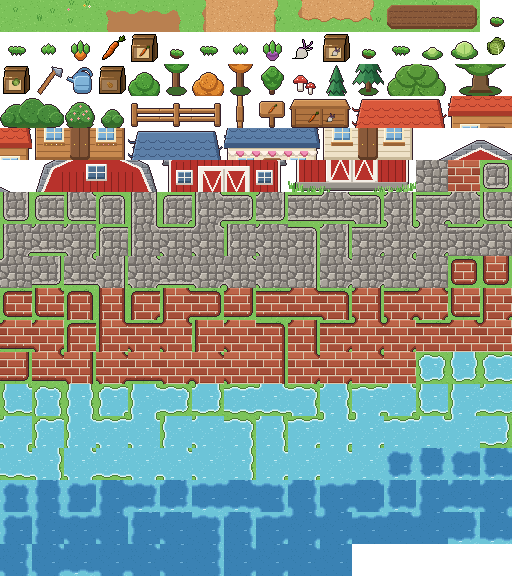
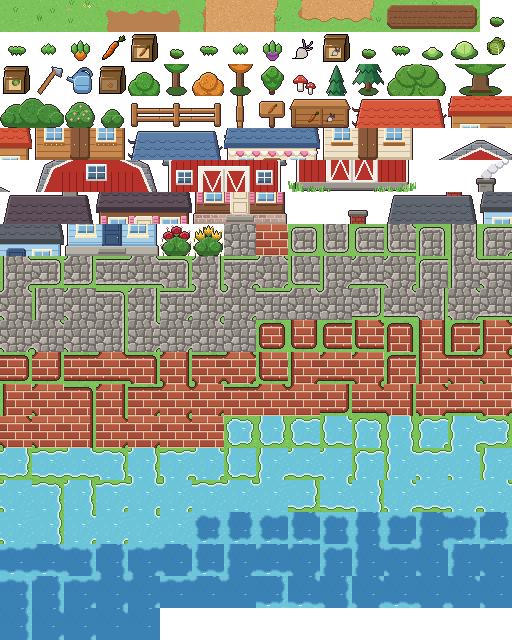
Art: two houses, two villagers, rose and tulip patches
house_brown (faded brick foundation, pink shutters, smoking stone chimney) and
house_blue (plain foundation, idle brick chimney), 3x4 tiles. Villager walk
sheets on the player body: bald man with a moustache in a red shirt and blue
overalls, woman in a yellow sweater and jeans with a brown ponytail.
Walk-through roses and tulips patches that fade into the grass.

Claude-Session: https://claude.ai/code/session_01JZv9D8eG6iRnc3yJzRKhZf

diff --git a/src/art-index.js b/src/art-index.js
@@ -1,2 +1,2 @@
 // Generated by tools/make_art.py: tile names -> index in assets/art/world.png (16 columns of 32x32).
-export const A = {"grass0": 0, "grass1": 1, "grass2": 2, "path0": 3, "path1": 4, "path2": 5, "path3": 6, "path4": 7, "path5": 8, "path6": 9, "path7": 10, "path8": 11, "soil0": 12, "soil1": 13, "soil2": 14, "carrot0": 15, "carrot1": 16, "carrot2": 17, "carrot3": 18, "carrot_item": 19, "carrot_packet": 20, "turnip0": 21, "turnip1": 22, "turnip2": 23, "turnip3": 24, "turnip_item": 25, "turnip_packet": 26, "cabbage0": 27, "cabbage1": 28, "cabbage2": 29, "cabbage3": 30, "cabbage_item": 31, "cabbage_packet": 32, "hoe": 33, "can": 34, "bag": 35, "tree_green_0": 36, "tree_green_1": 37, "tree_orange_0": 38, "tree_orange_1": 39, "tree": 40, "mushrooms": 41, "pine_0": 42, "pine_1": 43, "oak_0": 44, "oak_1": 45, "oak_2": 46, "oak_3": 47, "shrub_large_0": 48, "shrub_large_1": 49, "shrub_flower": 50, "shrub_small": 51, "fence0": 52, "fence1": 53, "fence2": 54, "fence3": 55, "sign": 56, "bin_0": 57, "bin_1": 58, "house_0": 59, "house_1": 60, "house_2": 61, "house_3": 62, "house_4": 63, "house_5": 64, "house_6": 65, "house_7": 66, "house_8": 67, "shop_0": 68, "shop_1": 69, "shop_2": 70, "shop_3": 71, "shop_4": 72, "shop_5": 73, "shop_6": 74, "shop_7": 75, "shop_8": 76, "barn_0": 77, "barn_1": 78, "barn_2": 79, "barn_3": 80, "barn_4": 81, "barn_5": 82, "barn_6": 83, "barn_7": 84, "barn_8": 85, "barn_9": 86, "barn_10": 87, "barn_11": 88, "barn_12": 89, "barn_13": 90, "barn_14": 91, "barn_15": 92, "cobble0": 93, "brick0": 94, "cobbleb0": 95, "cobbleb1": 96, "cobbleb2": 97, "cobbleb3": 98, "cobbleb4": 99, "cobbleb5": 100, "cobbleb6": 101, "cobbleb7": 102, "cobbleb8": 103, "cobbleb9": 104, "cobbleb10": 105, "cobbleb11": 106, "cobbleb12": 107, "cobbleb13": 108, "cobbleb14": 109, "cobbleb15": 110, "cobbleb16": 111, "cobbleb17": 112, "cobbleb18": 113, "cobbleb19": 114, "cobbleb20": 115, "cobbleb21": 116, "cobbleb22": 117, "cobbleb23": 118, "cobbleb24": 119, "cobbleb25": 120, "cobbleb26": 121, "cobbleb27": 122, "cobbleb28": 123, "cobbleb29": 124, "cobbleb30": 125, "cobbleb31": 126, "cobbleb32": 127, "cobbleb33": 128, "cobbleb34": 129, "cobbleb35": 130, "cobbleb36": 131, "cobbleb37": 132, "cobbleb38": 133, "cobbleb39": 134, "cobbleb40": 135, "cobbleb41": 136, "cobbleb42": 137, "cobbleb43": 138, "cobbleb44": 139, "cobbleb45": 140, "cobbleb46": 141, "brickb0": 142, "brickb1": 143, "brickb2": 144, "brickb3": 145, "brickb4": 146, "brickb5": 147, "brickb6": 148, "brickb7": 149, "brickb8": 150, "brickb9": 151, "brickb10": 152, "brickb11": 153, "brickb12": 154, "brickb13": 155, "brickb14": 156, "brickb15": 157, "brickb16": 158, "brickb17": 159, "brickb18": 160, "brickb19": 161, "brickb20": 162, "brickb21": 163, "brickb22": 164, "brickb23": 165, "brickb24": 166, "brickb25": 167, "brickb26": 168, "brickb27": 169, "brickb28": 170, "brickb29": 171, "brickb30": 172, "brickb31": 173, "brickb32": 174, "brickb33": 175, "brickb34": 176, "brickb35": 177, "brickb36": 178, "brickb37": 179, "brickb38": 180, "brickb39": 181, "brickb40": 182, "brickb41": 183, "brickb42": 184, "brickb43": 185, "brickb44": 186, "brickb45": 187, "brickb46": 188, "shallow0": 189, "shallow1": 190, "shallow2": 191, "shallow3": 192, "shallow4": 193, "shallow5": 194, "shallow6": 195, "shallow7": 196, "shallow8": 197, "shallow9": 198, "shallow10": 199, "shallow11": 200, "shallow12": 201, "shallow13": 202, "shallow14": 203, "shallow15": 204, "shallow16": 205, "shallow17": 206, "shallow18": 207, "shallow19": 208, "shallow20": 209, "shallow21": 210, "shallow22": 211, "shallow23": 212, "shallow24": 213, "shallow25": 214, "shallow26": 215, "shallow27": 216, "shallow28": 217, "shallow29": 218, "shallow30": 219, "shallow31": 220, "shallow32": 221, "shallow33": 222, "shallow34": 223, "shallow35": 224, "shallow36": 225, "shallow37": 226, "shallow38": 227, "shallow39": 228, "shallow40": 229, "shallow41": 230, "shallow42": 231, "shallow43": 232, "shallow44": 233, "shallow45": 234, "shallow46": 235, "deep0": 236, "deep1": 237, "deep2": 238, "deep3": 239, "deep4": 240, "deep5": 241, "deep6": 242, "deep7": 243, "deep8": 244, "deep9": 245, "deep10": 246, "deep11": 247, "deep12": 248, "deep13": 249, "deep14": 250, "deep15": 251, "deep16": 252, "deep17": 253, "deep18": 254, "deep19": 255, "deep20": 256, "deep21": 257, "deep22": 258, "deep23": 259, "deep24": 260, "deep25": 261, "deep26": 262, "deep27": 263, "deep28": 264, "deep29": 265, "deep30": 266, "deep31": 267, "deep32": 268, "deep33": 269, "deep34": 270, "deep35": 271, "deep36": 272, "deep37": 273, "deep38": 274, "deep39": 275, "deep40": 276, "deep41": 277, "deep42": 278, "deep43": 279, "deep44": 280, "deep45": 281, "deep46": 282};
+export const A = {"grass0": 0, "grass1": 1, "grass2": 2, "path0": 3, "path1": 4, "path2": 5, "path3": 6, "path4": 7, "path5": 8, "path6": 9, "path7": 10, "path8": 11, "soil0": 12, "soil1": 13, "soil2": 14, "carrot0": 15, "carrot1": 16, "carrot2": 17, "carrot3": 18, "carrot_item": 19, "carrot_packet": 20, "turnip0": 21, "turnip1": 22, "turnip2": 23, "turnip3": 24, "turnip_item": 25, "turnip_packet": 26, "cabbage0": 27, "cabbage1": 28, "cabbage2": 29, "cabbage3": 30, "cabbage_item": 31, "cabbage_packet": 32, "hoe": 33, "can": 34, "bag": 35, "tree_green_0": 36, "tree_green_1": 37, "tree_orange_0": 38, "tree_orange_1": 39, "tree": 40, "mushrooms": 41, "pine_0": 42, "pine_1": 43, "oak_0": 44, "oak_1": 45, "oak_2": 46, "oak_3": 47, "shrub_large_0": 48, "shrub_large_1": 49, "shrub_flower": 50, "shrub_small": 51, "fence0": 52, "fence1": 53, "fence2": 54, "fence3": 55, "sign": 56, "bin_0": 57, "bin_1": 58, "house_0": 59, "house_1": 60, "house_2": 61, "house_3": 62, "house_4": 63, "house_5": 64, "house_6": 65, "house_7": 66, "house_8": 67, "shop_0": 68, "shop_1": 69, "shop_2": 70, "shop_3": 71, "shop_4": 72, "shop_5": 73, "shop_6": 74, "shop_7": 75, "shop_8": 76, "barn_0": 77, "barn_1": 78, "barn_2": 79, "barn_3": 80, "barn_4": 81, "barn_5": 82, "barn_6": 83, "barn_7": 84, "barn_8": 85, "barn_9": 86, "barn_10": 87, "barn_11": 88, "barn_12": 89, "barn_13": 90, "barn_14": 91, "barn_15": 92, "house_brown_0": 93, "house_brown_1": 94, "house_brown_2": 95, "house_brown_3": 96, "house_brown_4": 97, "house_brown_5": 98, "house_brown_6": 99, "house_brown_7": 100, "house_brown_8": 101, "house_brown_9": 102, "house_brown_10": 103, "house_brown_11": 104, "house_blue_0": 105, "house_blue_1": 106, "house_blue_2": 107, "house_blue_3": 108, "house_blue_4": 109, "house_blue_5": 110, "house_blue_6": 111, "house_blue_7": 112, "house_blue_8": 113, "house_blue_9": 114, "house_blue_10": 115, "house_blue_11": 116, "roses": 117, "tulips": 118, "cobble0": 119, "brick0": 120, "cobbleb0": 121, "cobbleb1": 122, "cobbleb2": 123, "cobbleb3": 124, "cobbleb4": 125, "cobbleb5": 126, "cobbleb6": 127, "cobbleb7": 128, "cobbleb8": 129, "cobbleb9": 130, "cobbleb10": 131, "cobbleb11": 132, "cobbleb12": 133, "cobbleb13": 134, "cobbleb14": 135, "cobbleb15": 136, "cobbleb16": 137, "cobbleb17": 138, "cobbleb18": 139, "cobbleb19": 140, "cobbleb20": 141, "cobbleb21": 142, "cobbleb22": 143, "cobbleb23": 144, "cobbleb24": 145, "cobbleb25": 146, "cobbleb26": 147, "cobbleb27": 148, "cobbleb28": 149, "cobbleb29": 150, "cobbleb30": 151, "cobbleb31": 152, "cobbleb32": 153, "cobbleb33": 154, "cobbleb34": 155, "cobbleb35": 156, "cobbleb36": 157, "cobbleb37": 158, "cobbleb38": 159, "cobbleb39": 160, "cobbleb40": 161, "cobbleb41": 162, "cobbleb42": 163, "cobbleb43": 164, "cobbleb44": 165, "cobbleb45": 166, "cobbleb46": 167, "brickb0": 168, "brickb1": 169, "brickb2": 170, "brickb3": 171, "brickb4": 172, "brickb5": 173, "brickb6": 174, "brickb7": 175, "brickb8": 176, "brickb9": 177, "brickb10": 178, "brickb11": 179, "brickb12": 180, "brickb13": 181, "brickb14": 182, "brickb15": 183, "brickb16": 184, "brickb17": 185, "brickb18": 186, "brickb19": 187, "brickb20": 188, "brickb21": 189, "brickb22": 190, "brickb23": 191, "brickb24": 192, "brickb25": 193, "brickb26": 194, "brickb27": 195, "brickb28": 196, "brickb29": 197, "brickb30": 198, "brickb31": 199, "brickb32": 200, "brickb33": 201, "brickb34": 202, "brickb35": 203, "brickb36": 204, "brickb37": 205, "brickb38": 206, "brickb39": 207, "brickb40": 208, "brickb41": 209, "brickb42": 210, "brickb43": 211, "brickb44": 212, "brickb45": 213, "brickb46": 214, "shallow0": 215, "shallow1": 216, "shallow2": 217, "shallow3": 218, "shallow4": 219, "shallow5": 220, "shallow6": 221, "shallow7": 222, "shallow8": 223, "shallow9": 224, "shallow10": 225, "shallow11": 226, "shallow12": 227, "shallow13": 228, "shallow14": 229, "shallow15": 230, "shallow16": 231, "shallow17": 232, "shallow18": 233, "shallow19": 234, "shallow20": 235, "shallow21": 236, "shallow22": 237, "shallow23": 238, "shallow24": 239, "shallow25": 240, "shallow26": 241, "shallow27": 242, "shallow28": 243, "shallow29": 244, "shallow30": 245, "shallow31": 246, "shallow32": 247, "shallow33": 248, "shallow34": 249, "shallow35": 250, "shallow36": 251, "shallow37": 252, "shallow38": 253, "shallow39": 254, "shallow40": 255, "shallow41": 256, "shallow42": 257, "shallow43": 258, "shallow44": 259, "shallow45": 260, "shallow46": 261, "deep0": 262, "deep1": 263, "deep2": 264, "deep3": 265, "deep4": 266, "deep5": 267, "deep6": 268, "deep7": 269, "deep8": 270, "deep9": 271, "deep10": 272, "deep11": 273, "deep12": 274, "deep13": 275, "deep14": 276, "deep15": 277, "deep16": 278, "deep17": 279, "deep18": 280, "deep19": 281, "deep20": 282, "deep21": 283, "deep22": 284, "deep23": 285, "deep24": 286, "deep25": 287, "deep26": 288, "deep27": 289, "deep28": 290, "deep29": 291, "deep30": 292, "deep31": 293, "deep32": 294, "deep33": 295, "deep34": 296, "deep35": 297, "deep36": 298, "deep37": 299, "deep38": 300, "deep39": 301, "deep40": 302, "deep41": 303, "deep42": 304, "deep43": 305, "deep44": 306, "deep45": 307, "deep46": 308};

diff --git a/src/map-data.js b/src/map-data.js
@@ -10,8 +10,9 @@ const SIZES = {
   house: { w: 3, h: 3 }, shop: { w: 3, h: 3 }, barn: { w: 4, h: 4, solid: 3 }, bin: { w: 2, h: 1 },
   tree_green: { w: 1, h: 2, solid: 1 }, tree_orange: { w: 1, h: 2, solid: 1 },
   pine: { w: 1, h: 2, solid: 1 }, oak: { w: 2, h: 2, solid: 1 }, shrub_large: { w: 2, h: 1 },
+  house_brown: { w: 3, h: 4, solid: 3 }, house_blue: { w: 3, h: 4, solid: 3 },
 };
-const WALK_THROUGH = new Set(['mushrooms']);
+const WALK_THROUGH = new Set(['mushrooms', 'roses', 'tulips']);
 const NOT_PLACEABLE = new Set(['hoe', 'can', 'bag', ...Object.values(CROPS).flatMap(c => [...c.stages, c.item, c.packet])]);
 export const isGround = n => /^(grass|path|soil|cobbleb?|brickb?|shallow|deep)\d+$/.test(n);
 export const BLOB_SETS = ['cobbleb', 'brickb', 'shallow', 'deep']; // 47-piece autotile sets drawn by tools/make_art.py

diff --git a/tools/make_art.py b/tools/make_art.py
@@ -216,6 +216,35 @@ def shrub_small():  # low single bush, about half the flowering shrub's size
     speckle(im, [light, dark], 25, (6, 12, 27, 30), lambda x, y: im.getpixel((x, y))[:3] == C(base)[:3])
     return outline(im)
 
+def flower_patch(kind):  # three big blooms on one leafy bundle, small matching flowers scattered round it into the grass
+    im = new(); d = ImageDraw.Draw(im); fr = random.Random(11 if kind == 'roses' else 12)
+    G2 = ('#4a8e3c', '#66ae50', '#326a2a')
+    if kind == 'roses': bloom, bloom_l, bloom_d, small = '#c8283a', '#ec5a64', '#8a1828', ('#e04a58', '#f48a96')
+    else: bloom, bloom_l, bloom_d, small = '#f2c230', '#fde27a', '#b8801a', ('#f6d04d', '#fff0a0')
+    shape(im, lambda d: d.ellipse([5, 25, 27, 31]), '#3c6b2c', None, None)
+    for cx, cy, r in ((16, 21, 8), (9, 24, 6), (23, 24, 6)):  # the leafy bundle
+        shape(im, lambda d, cx=cx, cy=cy, r=r: d.ellipse([cx - r, cy - r, cx + r, min(cy + r, 29)]), *G2)
+    d = ImageDraw.Draw(im)
+    for _ in range(20):  # leaf texture (own random, so the shared one stays in step for later tiles)
+        x, y = fr.randrange(3, 29), fr.randrange(13, 30)
+        if im.getpixel((x, y))[:3] == C(G2[0])[:3]: d.point((x, y), C(fr.choice(G2[1:])))
+    for (x0, y0), (cx, cy) in zip(((16, 18), (11, 21), (21, 21)), ((16, 7), (8, 12), (24, 12))): d.line([(x0, y0), (cx, cy + 3)], C('#3e7a32'))
+    for cx, cy in ((16, 7), (8, 12), (24, 12)):
+        if kind == 'roses':  # round bloom with a spiral of darker petal edges
+            shape(im, lambda d, cx=cx, cy=cy: d.ellipse([cx - 4, cy - 4, cx + 4, cy + 3]), bloom, bloom_l, bloom_d, 1)
+            d.arc([cx - 2, cy - 2, cx + 2, cy + 2], 180, 450, C(bloom_d)); d.point((cx, cy), C(bloom_d)); d.point((cx - 1, cy - 3), C(bloom_l))
+        else:  # tulip cup: two outer petals and a pointed middle one
+            shape(im, lambda d, cx=cx, cy=cy: d.polygon([(cx - 4, cy - 4), (cx - 2, cy - 1), (cx, cy - 5), (cx + 2, cy - 1), (cx + 4, cy - 4), (cx + 4, cy + 1), (cx + 2, cy + 3), (cx - 2, cy + 3), (cx - 4, cy + 1)]), bloom, bloom_l, bloom_d, 1)
+            d.line([(cx - 2, cy), (cx - 1, cy + 2)], C(bloom_d)); d.line([(cx + 2, cy), (cx + 1, cy + 2)], C(bloom_d))
+        d.polygon([(cx - 2, cy + 3), (cx, cy + 5), (cx + 2, cy + 3)], C('#4e9440'))  # sepals
+    outline(im)
+    # Loose little flowers and blades with no outline round the edge, so the patch fades into the grass around it.
+    for x, y in ((2, 14), (29, 7), (3, 28), (28, 29), (12, 2), (30, 18), (1, 21), (21, 3), (7, 4)):
+        d.line([(x, y + 1), (x, y + 3)], C(G2[2])); c = C(fr.choice(small))
+        for a, b in ((0, 0), (1, 0), (0, -1), (-1, 0)): d.point((x + a, y + b), c)
+        d.point((x, y), C('#fff6c0'))
+    return im
+
 # ---------- paving and water: blob autotiles, 47 pieces per set chosen from all 8 neighbours ----------
 N_, E_, S_, W_, NE, SE, SW, NW = 1, 2, 4, 8, 16, 32, 64, 128
 def blob_reduce(m):  # a corner neighbour only matters when both sides next to it are connected
@@ -389,6 +418,56 @@ def barn():  # 128x128 red gambrel barn with white trim, grey shingles behind th
     for x in list(range(15, 37, 4)) + list(range(92, 114, 4)): tuft(x + tr.randrange(-1, 2), 127, 3, 5)  # along the footing
     for x in (40, 87): tuft(x, 127, 3, 3)  # a little at the door posts, doorway kept clear
     return im
+def cottage(wall, wall_l, wall_d, roof, roof_l, roof_d, door, door_l, door_d, chimney, shutters=None, brick_base=False, smoke=False):
+    """96x128 house (3x4 tiles): siding walls, shingle roof, chimney poking above it; the top row holds chimney and smoke."""
+    im = new(96, 128); d = ImageDraw.Draw(im)
+    if chimney == 'brick':
+        shape(im, lambda d: d.rectangle([63, 22, 76, 56]), '#a8483a', '#c46050', '#7a3028', 1)
+        for y in range(25, 56, 4):
+            d.line([(64, y), (75, y)], C('#7a3028'))
+            for x in range(64 + (y // 4 % 2) * 3, 76, 6): d.line([(x, y - 3), (x, y - 1)], C('#7a3028'))
+        shape(im, lambda d: d.rectangle([61, 19, 78, 23]), '#8a8680', '#a8a49e', '#625e58', 1)
+    else:  # fieldstone
+        shape(im, lambda d: d.rectangle([63, 22, 76, 56]), '#8e8a84', '#aaa69e', '#66625c', 1)
+        for x, y in ((65, 26), (71, 31), (66, 37), (72, 43), (65, 48), (70, 52)): d.line([(x, y), (x + 4, y)], C('#66625c'))
+        shape(im, lambda d: d.rectangle([61, 19, 78, 23]), '#6e6a64', '#8e8a84', '#4e4a46', 1)
+    shape(im, lambda d: d.rectangle([4, 78, 91, 118]), wall, wall_l, wall_d)
+    for y in range(84, 118, 6): d.line([(5, y), (90, y)], C(wall_d))  # lap siding
+    shape(im, lambda d: d.polygon([(0, 82), (10, 36), (86, 36), (95, 82)]), roof, roof_l, roof_d, 3)
+    sh = new(96, 128); sd = ImageDraw.Draw(sh)
+    for r, y in enumerate(range(42, 80, 7)):
+        for x in range(4 + (r % 2) * 5, 94, 10): sd.arc([x - 5, y - 4, x + 5, y + 4], 20, 160, C(roof_d))
+    for (x, y) in [(x, y) for y in range(36, 80) for x in range(96) if sh.getpixel((x, y))[3] and im.getpixel((x, y))[:3] == C(roof)[:3]]: im.putpixel((x, y), C(roof_d))  # shingles kept inside the roof
+    shape(im, lambda d: d.rectangle([0, 79, 95, 83]), roof_d, None, None)
+    for x in (12, 64):  # windows, with shutters either side when asked
+        shape(im, lambda d, x=x: d.rectangle([x, 89, x + 19, 106]), '#f6e7c1', '#fff8e0', None)
+        shape(im, lambda d, x=x: d.rectangle([x + 2, 91, x + 17, 104]), '#7fb3d8', '#b9dcf2', '#4f80aa', 1)
+        d.line([(x + 10, 91), (x + 10, 104)], C('#f6e7c1')); d.line([(x + 2, 97), (x + 17, 97)], C('#f6e7c1'))
+        shape(im, lambda d, x=x: d.rectangle([x - 1, 107, x + 20, 109]), '#f6e7c1' if not shutters else wall_d, '#fff8e0' if not shutters else wall_l, None)
+        if shutters:
+            for sx in (x - 7, x + 21):
+                shape(im, lambda d, sx=sx: d.rectangle([sx, 88, sx + 5, 107]), shutters[0], shutters[1], shutters[2], 1)
+                for y in range(91, 106, 3): d.line([(sx + 1, y), (sx + 4, y)], C(shutters[2]))
+    shape(im, lambda d: d.rounded_rectangle([38, 88, 57, 120], 3), door, door_l, door_d)
+    d.rectangle([41, 92, 54, 102], outline=C(door_d)); d.rectangle([41, 106, 54, 116], outline=C(door_d)); d.point((53, 109), C('#f6d04d'))
+    if brick_base:  # faded brick: pale, low-contrast bricks with soft mortar
+        shape(im, lambda d: d.rectangle([2, 118, 93, 127]), '#d2c0b2', None, '#a8968a', 1)
+        br = random.Random(5)
+        for row, y in enumerate((119, 123)):
+            for x in range(3 - (row % 2) * 4, 93, 8):
+                c = C(br.choice(['#b48a7c', '#bc968a', '#a88074', '#c4a296']))
+                d.rectangle([max(x, 3), y, min(x + 6, 92), y + 2], c)
+        for _ in range(40): d.point((br.randrange(3, 93), br.randrange(119, 126)), C(br.choice(['#d2c0b2', '#c8b4a6'])))
+    else:
+        shape(im, lambda d: d.rectangle([2, 118, 93, 127]), '#b4b0a8', '#cac6be', '#8a867e', 1)
+    shape(im, lambda d: d.rectangle([34, 120, 61, 125]), '#9a968e', '#b4b0a8', '#706c66', 1)  # door step
+    outline(im)
+    if smoke:  # soft puffs drifting up and to the right, lighter as they rise
+        for (cx, cy, r), col in zip(((70, 14, 5), (76, 8, 5), (83, 4, 4), (89, 1, 3)), ('#d8d4dc', '#e2dee6', '#ece8f0', '#f4f2f6')):
+            sm = new(96, 128)
+            shape(sm, lambda d, cx=cx, cy=cy, r=r: d.ellipse([cx - r, cy - r, cx + r, cy + r]), col, '#ffffff', '#aaa6b4', 1)
+            sm.putalpha(sm.getchannel('A').point(lambda a: a * 215 // 255)); im.alpha_composite(sm)
+    return im
 def inside_poly(pts, x, y):
     m = Image.new('L', (4 * S, 4 * S)); ImageDraw.Draw(m).polygon(pts, 255); return m.getpixel((x, y)) > 0 if 0 <= y < 4 * S else False
 
@@ -407,6 +486,9 @@ def farmer(p):
             im = new(); step = (0, 1, -1)[f]
             d = ImageDraw.Draw(im); d.ellipse([9, 28, 23, 31], (0, 0, 0, 60))
             side = dir_ in (1, 2)
+            if p.get('tail') and side:  # ponytail hangs behind the head
+                tx = 22 if dir_ == 1 else 5
+                shape(im, lambda d: d.rounded_rectangle([tx, 6, tx + 5, 18], 2), p['hair'], p['hair_l'], p['hair_d'], 1)
             if p['long'] and dir_ != 3:  # long hair behind the body
                 box = [7, 8, 25, 23] if dir_ == 0 else [15, 8, 25, 22] if dir_ == 1 else [7, 8, 17, 22]
                 shape(im, lambda d: d.rounded_rectangle(box, 5), p['hair'], None, p['hair_d'])
@@ -426,7 +508,14 @@ def farmer(p):
             if not side or True:
                 shape(im, lambda d: d.rounded_rectangle([tx0, 15, tx1, 24], 3), p['shirt'], p['shirt_l'], p['shirt_d'])
                 d = ImageDraw.Draw(im)
-                if dir_ == 0: d.line([(16, 16), (16, 23)], C(p['shirt_d'])); d.point((16, 18), C(p['accent'])); d.point((16, 21), C(p['accent']))
+                if dir_ == 0 and not p.get('sweater'): d.line([(16, 16), (16, 23)], C(p['shirt_d'])); d.point((16, 18), C(p['accent'])); d.point((16, 21), C(p['accent']))
+                if p.get('sweater'): d.line([(tx0 + 1, 23), (tx1 - 1, 23)], C(p['shirt_d'])); d.line([(tx0 + 2, 15), (tx1 - 2, 15)], C(p['accent']))  # ribbed hem and collar
+                if p.get('overalls'):  # bib and straps in the trouser colour, brass buttons
+                    if dir_ == 0:
+                        shape(im, lambda d: d.rectangle([13, 18, 19, 24]), p['pants'], p['pants_l'], p['pants_d'], 1)
+                        d.line([(13, 15), (13, 18)], C(p['pants'])); d.line([(19, 15), (19, 18)], C(p['pants'])); d.point((14, 19), C('#f6d04d')); d.point((18, 19), C('#f6d04d'))
+                    elif dir_ == 3: d.line([(13, 15), (19, 21)], C(p['pants'])); d.line([(19, 15), (13, 21)], C(p['pants'])); shape(im, lambda d: d.rectangle([12, 21, 20, 24]), p['pants'], None, p['pants_d'], 1)
+                    else: d.line([(16, 15), (16, 20)], C(p['pants'])); shape(im, lambda d: d.rectangle([13, 20, 19, 24]), p['pants'], None, p['pants_d'], 1)
                 if p.get('apron') and dir_ == 0: shape(im, lambda d: d.rectangle([13, 19, 19, 24]), '#fff3e6', None, '#d8c8b8', 1)
             for ax, sw in arms:
                 shape(im, lambda d: d.rounded_rectangle([ax, 16 + sw, ax + 2, 22 + sw], 1), p['shirt'], p['shirt_l'], p['shirt_d'], 1)
@@ -437,19 +526,34 @@ def farmer(p):
             if dir_ == 0:
                 for ex, out in ((12, -1), (19, 2)): eye(d, p, ex, out)
                 d.point((11, 14), C('#f29a9a')); d.point((21, 14), C('#f29a9a')); d.line([(15, 14), (16, 14)], C('#c06060'))
+                if p.get('stache'):  # thick moustache over the mouth, bushy brows
+                    shape(im, lambda d: d.polygon([(11, 15), (13, 12), (16, 13), (19, 12), (21, 15), (19, 14), (16, 15), (13, 14)]), p['stache'], p['stache_l'], p['stache_d'], 1)
+                    d.line([(11, 7), (14, 7)], C(p['stache'])); d.line([(18, 7), (21, 7)], C(p['stache']))
             elif side:
                 ex = 10 if dir_ == 1 else 20
                 eye(d, p, ex, 2 if dir_ == 2 else -1)
                 d.point((ex + (1 if dir_ == 1 else -1), 14), C('#f29a9a'))
+                if p.get('stache'):
+                    mx = 8 if dir_ == 1 else 19
+                    shape(im, lambda d: d.rectangle([mx, 12, mx + 4, 14]), p['stache'], p['stache_l'], p['stache_d'], 1)
+                    d.line([(ex - 1, 7), (ex + 2, 7)], C(p['stache']))
             # hair
             H, Hl, Hd = p['hair'], p['hair_l'], p['hair_d']
-            if dir_ == 3: shape(im, lambda d: d.ellipse([7, 1, 25, 18]), H, Hl, Hd)
+            if p.get('bald'):  # just a fringe of hair round the back and a shine on top
+                if dir_ == 3: shape(im, lambda d: d.chord([8, 2, 24, 17], 10, 170), H, Hl, Hd, 1)
+                elif side: shape(im, lambda d: d.polygon([(20, 8), (24, 8), (24, 13), (21, 14)] if dir_ == 1 else [(12, 8), (8, 8), (8, 13), (11, 14)]), H, Hl, Hd, 1)
+                else: shape(im, lambda d: d.rectangle([8, 9, 9, 12]), H, None, Hd); shape(im, lambda d: d.rectangle([23, 9, 24, 12]), H, None, Hd)
+                d = ImageDraw.Draw(im); d.point((13, 4), C('#ffffff')); d.point((14, 4), C('#ffffff')); d.point((13, 5), C('#ffffff'))
+            elif dir_ == 3: shape(im, lambda d: d.ellipse([7, 1, 25, 18]), H, Hl, Hd)
             elif dir_ == 0: shape(im, lambda d: d.polygon(p['fringe']), H, Hl, Hd, 1)
             else:
                 pts = p['side']
                 if dir_ == 1: pts = [(32 - x, y) for x, y in pts]
                 shape(im, lambda d: d.polygon(pts), H, Hl, Hd, 1)
             if p['long'] and dir_ == 3: shape(im, lambda d: d.rounded_rectangle([8, 10, 24, 23], 5), H, Hl, Hd)
+            if p.get('tail') and dir_ == 3:
+                shape(im, lambda d: d.rounded_rectangle([14, 12, 18, 24], 2), H, Hl, Hd, 1); d = ImageDraw.Draw(im); d.line([(14, 12), (18, 12)], C(p['tie']))
+            if p.get('tail') and side: d = ImageDraw.Draw(im); tx = 22 if dir_ == 1 else 5; d.line([(tx, 7), (tx + 5, 7)], C(p['tie']))
             if p.get('clip') and dir_ != 2:
                 cx = 22 if dir_ != 1 else 18; cy = 4
                 for a, b in ((0, -1), (0, 1), (-1, 0), (1, 0)): d.point((cx + a, cy + b), C(p['clip']))
@@ -466,6 +570,14 @@ FEMALE = dict(hair='#e6a64a', hair_l='#f6c66a', hair_d='#b06a2c', shirt='#f28462
               pants='#7a5a9a', pants_d='#5a3f78', long=True, clip='#e86a9a', apron=True,
               fringe=[(7, 12), (8, 3), (12, 1), (20, 1), (24, 3), (25, 12), (23, 10), (22, 6), (17, 6), (13, 7), (10, 6), (9, 11)],
               side=[(7, 15), (8, 3), (13, 1), (20, 1), (25, 4), (24, 8), (19, 7), (14, 7), (12, 10), (10, 18)])
+# Townsfolk built on the same body as the players.
+VILLAGER_M = dict(hair='#7a6a5e', hair_l='#9a8a7e', hair_d='#5a4a40', shirt='#c8343a', shirt_l='#e05a5a', shirt_d='#8a2028', accent='#e05a5a', eye='#4a3a2a', eye_l='#8a6a4a',
+                  pants='#3f68a8', pants_l='#5f88c8', pants_d='#2c4a80', long=False, bald=True, overalls=True,
+                  stache='#6a4a36', stache_l='#8a6a50', stache_d='#4a3020', fringe=[], side=[])
+VILLAGER_F = dict(hair='#7a4a2c', hair_l='#9a6440', hair_d='#55321e', shirt='#f2c230', shirt_l='#fde27a', shirt_d='#c08a18', accent='#fde27a', eye='#3a6a4a', eye_l='#7aaa7a',
+                  pants='#4a6aa8', pants_d='#34508a', long=False, tail=True, tie='#c8343a', sweater=True,
+                  fringe=[(7, 11), (8, 3), (12, 1), (20, 1), (24, 3), (25, 11), (23, 8), (20, 5), (15, 5), (11, 6), (9, 9)],
+                  side=[(7, 11), (8, 3), (13, 1), (20, 1), (25, 4), (25, 8), (20, 6), (14, 6), (11, 8), (9, 12)])
 
 # ---------- assemble ----------
 cells, names = [], {}
@@ -491,6 +603,10 @@ add('sign', sign()); add('bin', bin_())
 add('house', building('#d9583b', '#f07a5a', '#a83a2a', '#c88a50', '#e0a96a', '#9a6436'))
 add('shop', building('#5c7fa8', '#7fa3c8', '#3f5a80', '#efe2c8', '#fff4dc', '#c8b898', awning=True))
 add('barn', barn())
+add('house_brown', cottage('#8a5a3a', '#a87050', '#64402a', '#5e4f5a', '#7a6a76', '#3f343e', '#efe2c8', '#fff4dc', '#b8a888', 'stone',
+                           shutters=('#f28fb8', '#f9b4d0', '#c45e7a'), brick_base=True, smoke=True))
+add('house_blue', cottage('#a8d0e8', '#c8e4f4', '#7aa8c8', '#5f6670', '#7c838c', '#43484f', '#3f5a80', '#5c7fa8', '#2a3e5c', 'brick'))
+add('roses', flower_patch('roses')); add('tulips', flower_patch('tulips'))
 COB, BRK, SHAL, DEEP = cobble_tex(), brick_tex(), water_tex('#6cc4d8', '#86d2e2', '#c4eef4'), water_tex('#3a82b4', '#327aa8', '#6eb0d8')
 add('cobble0', COB); add('brick0', BRK)
 blob_set('cobbleb', COB, grass(0), 'kerb'); blob_set('brickb', BRK, grass(0), 'kerb', (C('#8a3c2c'), C('#7a3426')))
@@ -501,6 +617,7 @@ for i, im in enumerate(cells): sheet.alpha_composite(im, ((i % COLS) * S, (i // 
 import os; os.makedirs('assets/art', exist_ok=True)
 sheet.save('assets/art/world.png')
 farmer(MALE).save('assets/characters/farmer_male.png'); farmer(FEMALE).save('assets/characters/farmer_female.png')
+farmer(VILLAGER_M).save('assets/characters/villager_male.png'); farmer(VILLAGER_F).save('assets/characters/villager_female.png')
 with open('src/art-index.js', 'w') as f:
     f.write('// Generated by tools/make_art.py: tile names -> index in assets/art/world.png (16 columns of 32x32).\n')
     f.write('export const A = ' + str(names).replace("'", '"') + ';\n')

diff --git a/CREDITS.md b/CREDITS.md
@@ -2,5 +2,5 @@
 
 ## Art
 - **Crop items and seed bags** come from the [Farming Set (Pixel-Art)](https://opengameart.org/content/farming-set-pixel-art) by ScratchIO (CC0 1.0). The source files are in `assets/cc0-farming-set/`. The turnip is a recoloured beet.
-- **Everything else** is original 32x32 pixel art made for FarmLife with `tools/make_art.py`. That includes the ground, crops in the field, trees, shrubs, buildings, tools and the player characters.
+- **Everything else** is original 32x32 pixel art made for FarmLife with `tools/make_art.py`. That includes the ground, crops in the field, trees, shrubs, flower patches, buildings and houses, tools, the player characters and the villagers (`assets/characters/villager_*.png`).
 - Earlier versions used Kenney's Tiny Town and Tiny Farm (CC0 1.0). Thanks, [Kenney](https://www.kenney.nl)!
